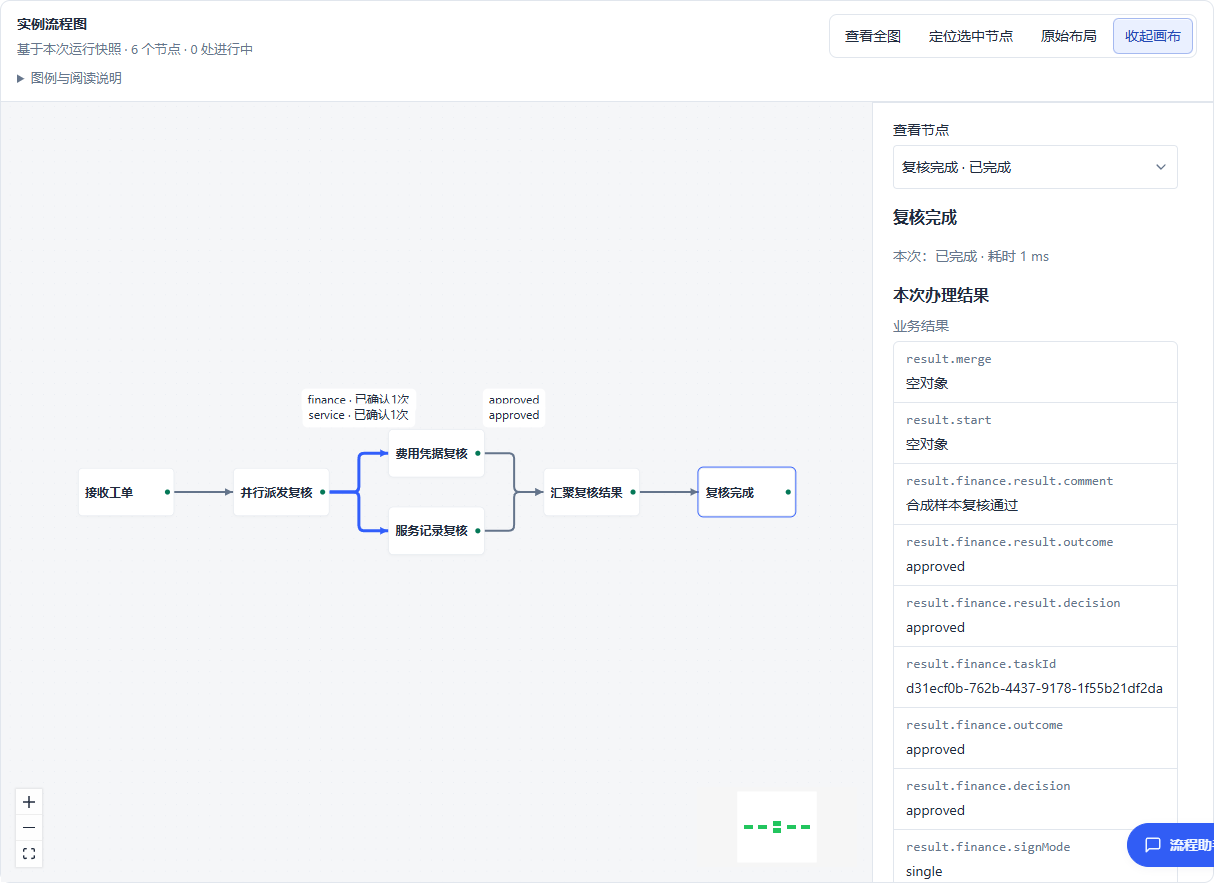
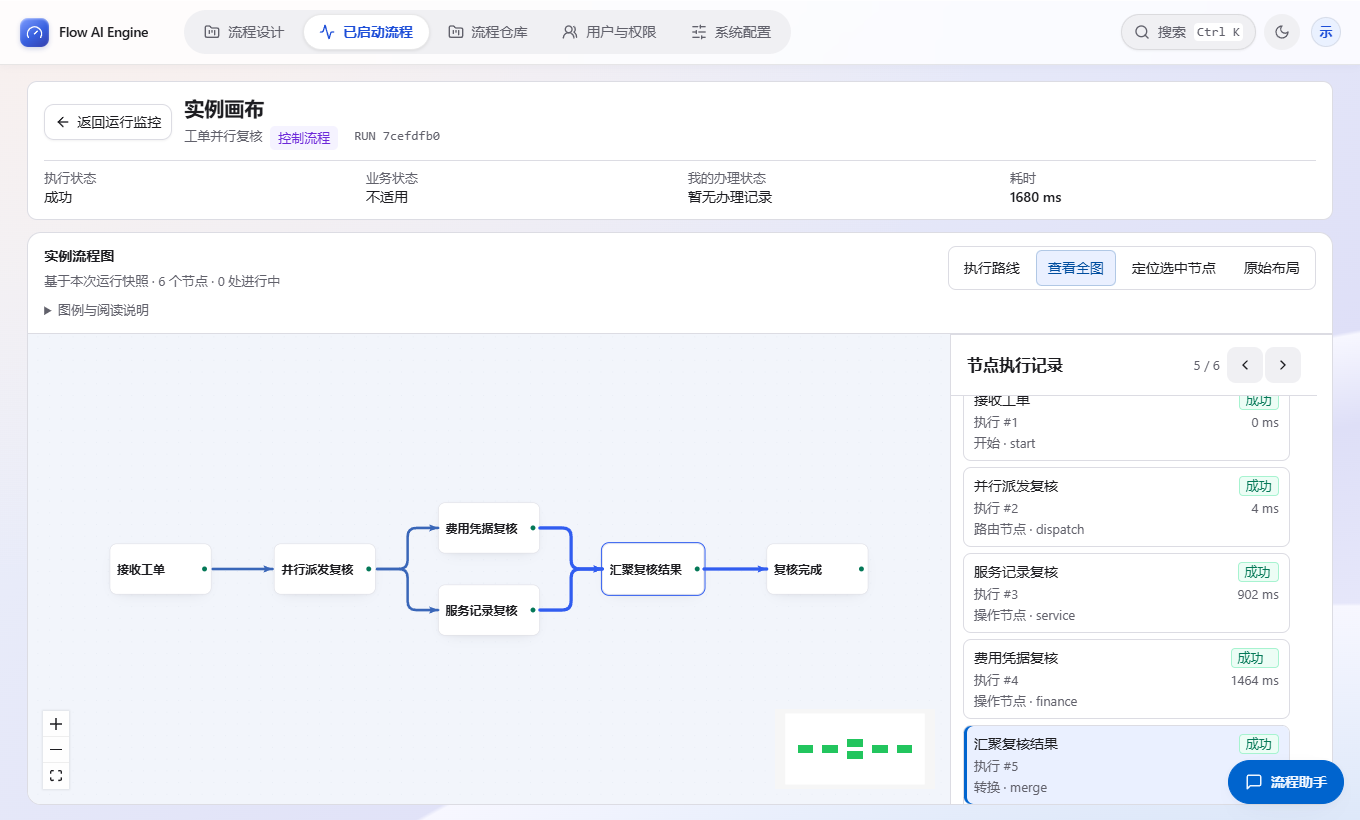
用新版控制台和流程实例截图更新 GitHub 使用说明
补充业务中心、登录页和深色设计器导览，按真实运行结果更新报警、请假及三类流程的截图与操作路径。

diff --git a/docs/workflow-guide.md b/docs/workflow-guide.md
@@ -1,6 +1,8 @@
 # 三类流程使用说明
 
-三类流程都通过业务项目进入。先创建草稿、连接节点、配置运行参数，再保存、审核并发布。正式发起会固定当时的定义和输入，返回运行编号。完成后在「已启动流程」或「数据资源」查看实际节点记录、待办和输出。
+从顶部「流程设计」进入业务中心，找到目标业务并点「进入」。在「流程设计中心」创建草稿、连接节点、配置运行参数，再保存、审核并发布。正式发起时会固定当时的定义和输入，返回运行编号。[控制台界面导览](../README.md#控制台界面)
+
+办理分派给自己的任务时，打开「已启动流程」中的「流程工作台」。追踪某次运行时，切到「运行监控」，打开对应实例。状态和控制实例可按执行记录定位节点，数据实例可在「最终结果」查看输出。
 
 ## 状态流程
 
@@ -8,7 +10,9 @@
 
 在按参与人建模的状态流程中，每个人有自己的状态卡和可执行操作。提交可让提交人进入「已提交」并给接收人生成「待处理」。撤回使原处理人的任务失效。重新选择接收人生成下一轮待办，重复提交同一已办命令可核对原回执。[参与人状态设计](participant-state-routing-design.md)
 
-![真实运行监控中聚焦请假审批的经理审核节点](images/flow-state.png)
+打开员工请假实例后，在右侧「节点执行记录」选中「经理审核」。画布会定位到该节点，记录下方显示办理结果。用面板顶部的左右箭头可按实际执行顺序逐条查看。
+
+![请假审批实例中的经理审核节点、选中的执行记录和实际办理人](images/flow-state.png)
 
 ## 控制流程
 
@@ -16,15 +20,17 @@
 
 工单示例同时创建服务和费用两条复核待办。一条先完成时，另一条仍可办理。两条完成后，汇聚和出口各执行一次。具备运行控制权限时，可以暂停、恢复或取消实例。取消后未完成待办不再允许办理。[编译与执行设计](development/architecture.md)
 
-![工单控制流程的两条并行复核分支及完成后的汇聚](images/flow-control.png)
+在工单实例中切到「查看全图」，可以看到费用和服务两条分支如何汇聚。切回「执行路线」可按本次运行的节点记录追踪办理过程。
+
+![工单控制实例的完整画布，两条复核分支汇聚后进入同一个出口](images/flow-control.png)
 
 ## 数据流程
 
 数据流程按依赖图处理行集。资源节点读取项目资产，筛选、映射、关联、聚合等节点逐步生成结果。质量门检查行数和空值等条件，失败时保留失败节点的诊断。内联、MySQL 只读、固定版本 API 和 CSV 各有独立能力。写回外部系统须走连接器的预览、确认和回执核对。[连接器说明](development/optimization/G01-IMPLEMENTATION.md)
 
-订单示例先排除取消的订单，经过质量校验后按地区汇总。四条合成输入得到华东 2 单、200 元与华南 1 单、60 元。运行详情可查看终端结果、各节点行数和产物血缘。
+订单示例先排除取消的订单，经过质量校验后按地区汇总。打开运行实例的「最终结果」，按 `region`、`orderCount` 和 `total` 核对地区、订单数与金额。四条合成输入得到华东 2 单、200 元与华南 1 单、60 元。
 
-![数据流程实例中从订单资源读取、筛选、质量校验到地区汇总的节点](images/flow-data.png)
+![订单实例的最终结果页，表格列出华东、华南各自的订单数和合计金额](images/flow-data.png)
 
 ## 内置节点速查
 
@@ -41,10 +47,10 @@
 
 | 工作入口 | 常用任务 |
 | --- | --- |
-| 用户与权限、组织管理 | 创建和停用账号，管理部门、直属关系、主部门和成员。系统角色、部门继承、项目授权及流程角色分别生效。授权到期或撤销后，系统按当前有效权限重新判断。 |
+| 用户与权限 | 在账号目录创建或停用账号，在「组织架构」管理部门、直属关系、主部门和成员。系统角色、部门继承、项目授权及流程角色分别生效。授权到期或撤销后，系统按当前有效权限重新判断。 |
 | 流程设计、流程仓库 | 编辑业务项目中的草稿，核对版本、审核发布、导入导出。恢复旧草稿或发布版本时重新核对权限和当前发布规则。 |
 | 已启动流程 | 在工作台办理已分派任务，在运行监控核对运行记录、历史快照、节点日志和业务结果。可用的控制操作取决于角色和当前实例状态。 |
-| 数据资源 | 管理资源、连通测试、数据运行、产物血缘和调度。按运行编号区分已接单、执行中、失败与最终结果。 |
+| 业务内的「资源配置中心」 | 管理资源并测试连接。在「数据流」中查看运行记录、产物血缘和调度，按运行编号核对进度与最终结果。 |
 | AI 助手 | 管理员维护发布版和试聊。用户在已授权的业务上下文对话，先核对写入提案再确认。会话历史、后台回合与业务回执可分别查阅。 |
 
 [开发索引](development/INDEX.md) · [完整需求与验收场景](development/optimization/ACCEPTANCE.md)

diff --git a/docs/features.md b/docs/features.md
@@ -8,7 +8,7 @@
 - **内部目录批量导入**支持账号、部门和成员关系。观察者可以查看自己上传的差异，管理员逐行确认、回读和回退。预览会标出冲突并保留已有人工修改。[文件模板与字段合同](development/optimization/G03-IMPLEMENTATION.md)
 - **流程助手**覆盖项目盘点、三类流程草稿、画布检查、版本对比、运行预检与排障、待办办理及数据资产和质量诊断。任务详情与运行实例可带上当前对象，查询和确认回执可打开对应业务页面。普通用户使用一个默认助手，管理员可以切换 Agent 和设置默认项。[助手能力及权限](development/assistant-review.md) · [助手作业与运维](development/optimization/G04-IMPLEMENTATION.md)
 - **创建与复制**：创建窗口在当前账号会话内保留填写，关闭前确认，可导出未提交内容；创建结果未确认时使用原请求核对。复制保留同业务的目录及有效数据源，生成独立代号；来源变化后需重新确认。归档使用独立确认窗口，失败保留操作对象和提示，记录可从流程仓库恢复。
-- **统一工作空间**：正文和控件 14px、辅助信息 13px、分区标题 16px、弹窗标题 18px、页面标题 20px；主要页面共享内容宽度、留白和可折叠导航，兼容窄屏、深色模式及系统减少动态效果设置。
+- **统一工作空间**支持在顶部切换流程设计、已启动流程、流程仓库、用户与权限和系统配置。右上角可切换明暗主题，窄屏可从菜单打开导航。导航和面板随系统的增强对比度、减少透明度和减少动态效果设置调整。[控制台界面导览](../README.md#控制台界面)
 - **数据运行控制**：手工与调度运行均先原子入队并返回实例，进度和结果由后台更新。每个 Worker 进程的状态／控制通道和数据通道默认各处理 4 个并发作业，可通过 `WORKFLOW_WORKER_CONCURRENCY` 在 1 至 8 之间调整。连接测试独立执行，每进程处理一个。系统配置的运行诊断显示当前槽位。仍有运行权限的发起人可取消自己的排队或运行中数据实例，业务管理者可控制本业务实例。测试权限限于测试运行。取消保留已完成节点结果及原因，外部查询可能要返回或超时才释放连接。连接器等待默认 60 秒，可用 `DATA_CONNECTOR_TIMEOUT_MS` 在 1 至 120 秒内调整。
 - **运行与任务管理**：运行记录、节点日志、审批待办、消息等待、暂停与恢复。
 - **人员与权限管理**：账号、角色、组织及业务/流程授权；桌面目录与详情独立滚动，权限关系按需展开。支持有效期及按角色撤销，区分创建人与业务管理员，多项有效角色共同生效；失权后保留填写并隐藏已无权访问的内容。
